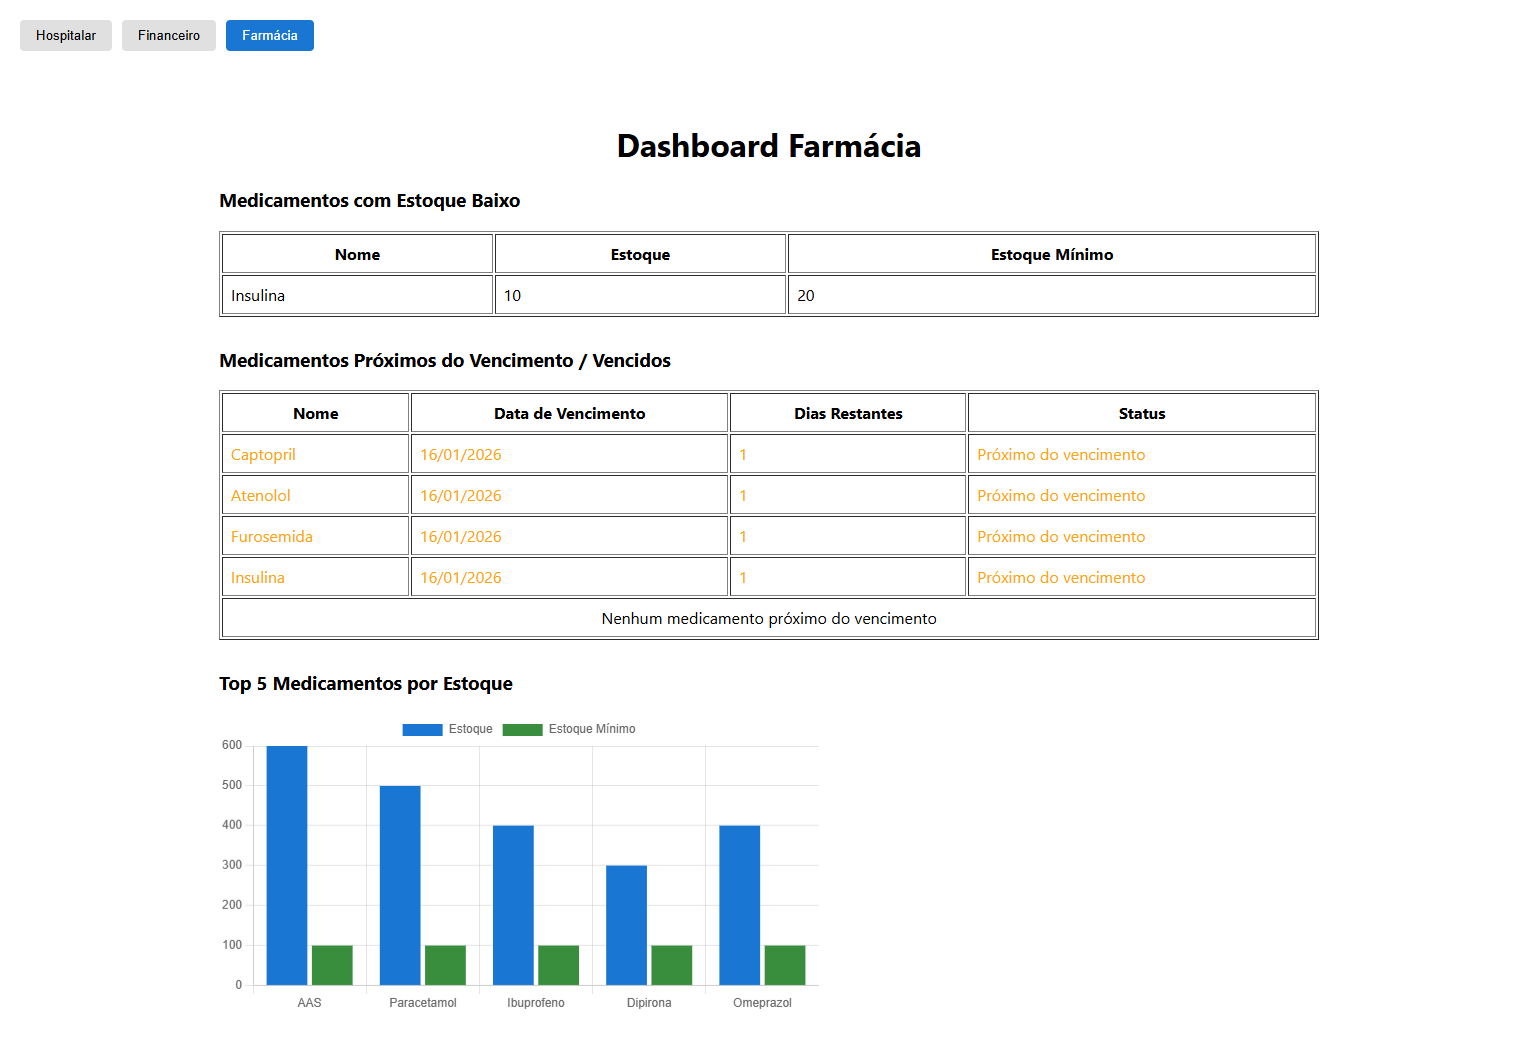
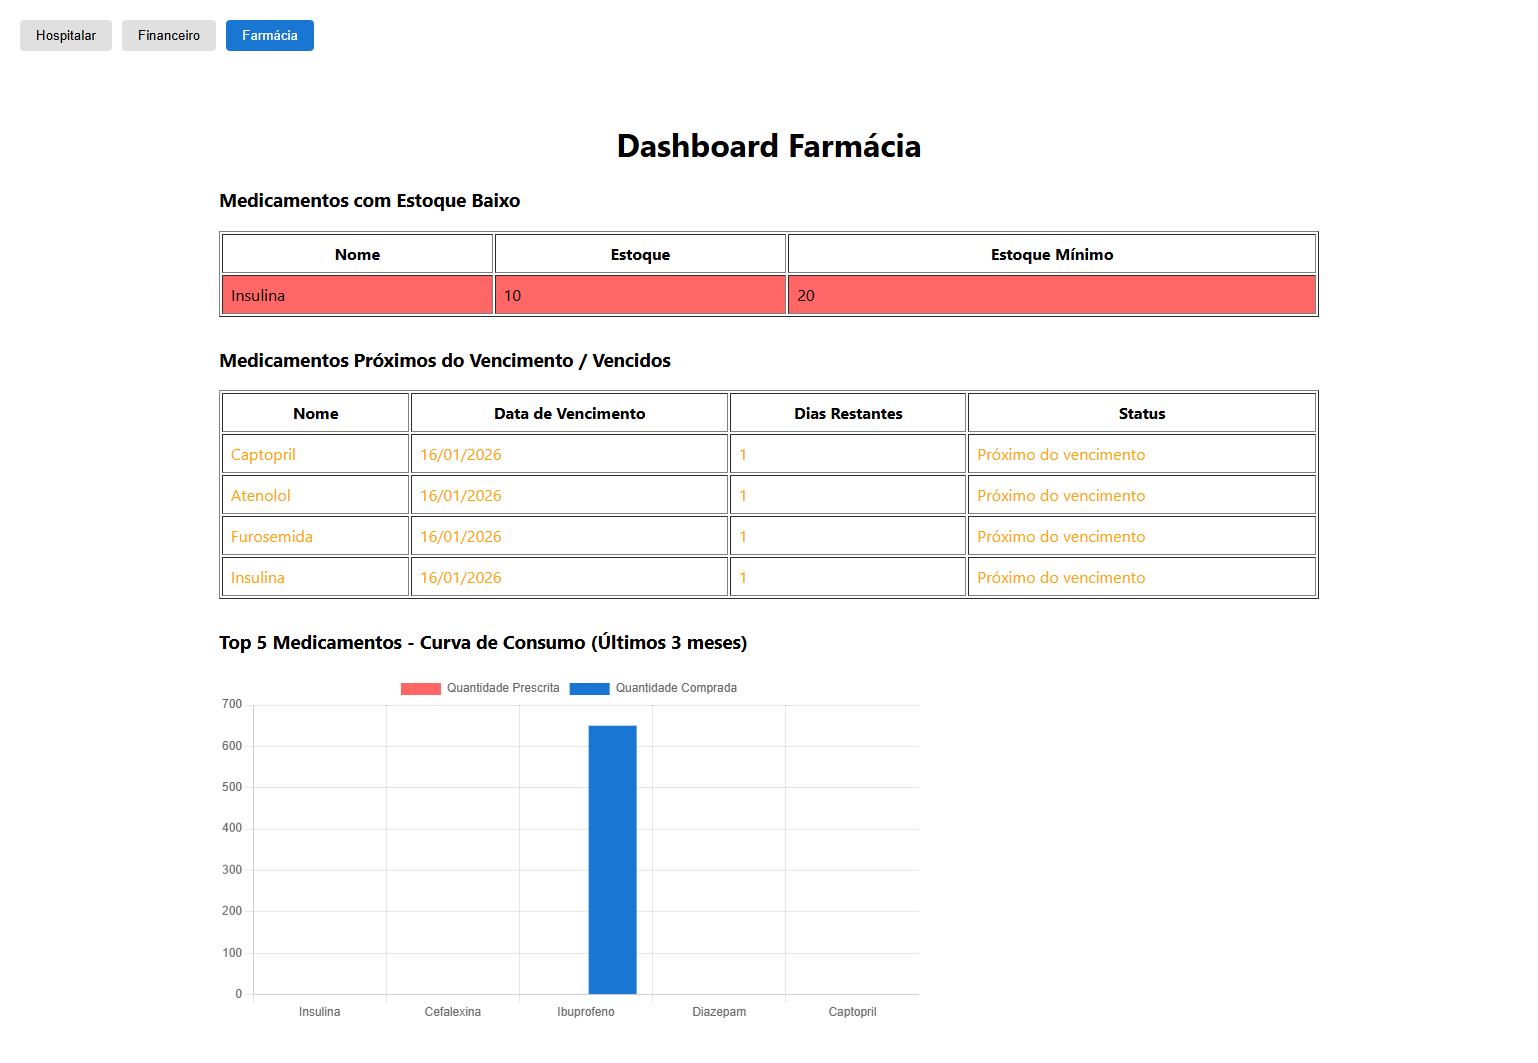
Modificações

diff --git a/example-app/app/Http/Controllers/api/FarmaciaDashboardController.php b/example-app/app/Http/Controllers/api/FarmaciaDashboardController.php
@@ -3,52 +3,71 @@
 namespace App\Http\Controllers\Api;
 
 use App\Http\Controllers\Controller;
-use Illuminate\Http\Request;
 use Illuminate\Support\Facades\DB;
 
 class FarmaciaDashboardController extends Controller
 {
     public function index()
     {
-     
+      
         $estoqueBaixo = DB::table('medicamentos')
-            ->select(
-                'id',
-                'nome',
-                'estoque',
-                'estoque_minimo'
-            )
+            ->select('id', 'nome', 'estoque', 'estoque_minimo')
             ->whereColumn('estoque', '<', 'estoque_minimo')
             ->orderBy('estoque', 'asc')
             ->get();
 
-
-            $proximosVencimento = DB::table('medicamentos')
+       
+        $proximosVencimento = DB::table('medicamentos')
             ->select(
                 'id',
                 'nome',
                 'data_validade',
                 DB::raw("DATE_PART('day', data_validade - NOW()) as dias_restantes")
             )
-            ->where('data_validade', '<=', now()->addDays(5)) 
+            ->where('data_validade', '<=', now()->addDays(30))
             ->orderBy('data_validade')
             ->get();
 
-
-        $topMedicamentos = DB::table('medicamentos')
+  
+        $curvaConsumo = DB::table('medicamentos as m')
             ->select(
-                'nome',
-                'estoque',
-                'estoque_minimo'
+                'm.nome',
+                DB::raw("COALESCE(SUM(pi.quantidade),0) as quantidade_prescrita"),
+                DB::raw("COALESCE(SUM(ci.quantidade),0) as quantidade_comprada")
             )
-            ->orderBy('estoque_minimo', 'desc')
+            ->leftJoin('prescricao_itens as pi', 'pi.medicamento_id', '=', 'm.id')
+            ->leftJoin('compra_itens as ci', 'ci.medicamento_id', '=', 'm.id')
+            ->leftJoin('compras_medicamentos as cm', function($join) {
+                $join->on('ci.compra_id', '=', 'cm.id')
+                     ->whereBetween('cm.data_compra', ['2024-07-01', '2024-12-31']);
+            })
+            ->groupBy('m.id', 'm.nome')
+            ->orderByDesc(DB::raw("SUM(pi.quantidade)"))
             ->limit(5)
+            ->get();
+
+        $prescricoes = DB::table('prescricoes')
+            ->select(
+                'id',
+                'consulta_id',
+                'internacao_id',
+                'paciente_id',
+                'medico_id',
+                'data_prescricao',
+                'observacoes',
+                'status',
+                'created_at'
+            )
+            ->whereNotNull('consulta_id') 
+            ->whereBetween('data_prescricao', ['2023-11-01', '2024-01-31'])
+            ->orderByDesc('data_prescricao')
             ->get();
 
         return response()->json([
             'estoqueBaixo' => $estoqueBaixo,
             'proximosVencimento' => $proximosVencimento,
-            'curvaConsumo' => $topMedicamentos
+            'curvaConsumo' => $curvaConsumo,
+            'prescricoes' => $prescricoes
         ]);
     }
 }
